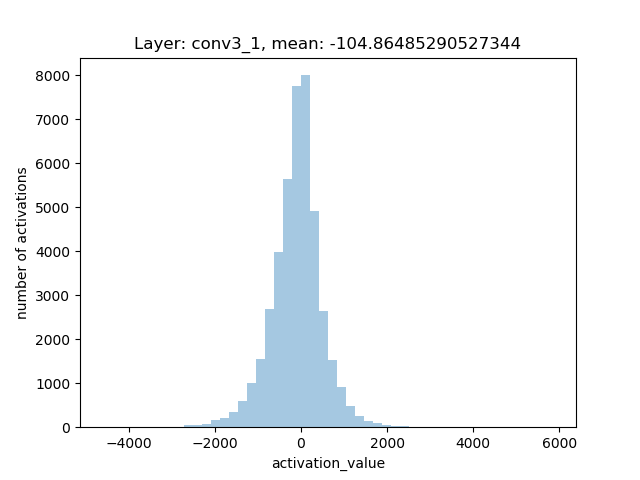
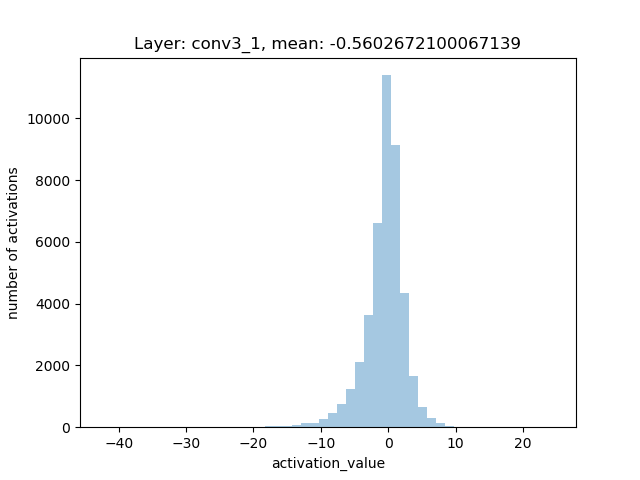
normalized vgg19 weights

diff --git a/vgg19.py b/vgg19.py
@@ -2,10 +2,13 @@ from utils import get_config
 print("what what what what")
 import tensorflow as tf
 import numpy as np
-import scipy.io
 
 
 def build_vgg(sess, h, w, d, config):
+    if config['verbose']: print('\nBUILDING VGG-19 NETWORK')
+    net = {}
+    if config['verbose']: print('loading model weights...')
+    root = config['model_weights']
 
     def conv_layer(layer_name, layer_input, W):
         padding = tf.constant([[0,0],[1,1],[1,1],[0,0]], name='padding')
@@ -34,9 +37,9 @@ def build_vgg(sess, h, w, d, config):
         return pool
 
     # helper function for loading VGG weights
-    def get_weights(vgg_layers, i):
-        weights = vgg_layers[i][0][0][2][0][0]
-
+    def get_weights(layer):
+        path = root+'/{}_{}.npy'.format(layer,'0')
+        weights = np.load(path)
         #This way of initialization is a workaround to ensure that the weights
         #are not written to the event file
         # https://stackoverflow.com/questions/35903910/tensorflow-reading-the-entire-contents-of-a-file-exactly-once-into-a-single-ten/35904439#35904439
@@ -46,89 +49,83 @@ def build_vgg(sess, h, w, d, config):
         return W
 
     #helper function for loading VGG bias weights
-    def get_bias(vgg_layers, i):
-        bias = vgg_layers[i][0][0][2][0][1]
+    def get_bias(layer):
+        path = root+'/{}_{}.npy'.format(layer,'1')
+        bias = np.load(path)
         bias = np.reshape(bias, (bias.size))
         bias_init = tf.placeholder(tf.float32, shape=bias.shape)
         b = tf.Variable(bias_init, trainable=False)
         sess.run(b.initializer, feed_dict={bias_init:bias})
         return b
 
-
-    if config['verbose']: print('\nBUILDING VGG-19 NETWORK')
-    net = {}
-
-    if config['verbose']: print('loading model weights...')
-    vgg_rawnet     = scipy.io.loadmat(config['model_weights'])
-    vgg_layers     = vgg_rawnet['layers'][0]
     if config['verbose']: print('constructing layers...')
     net['input']   = tf.Variable(tf.zeros((1, h, w, d), dtype=np.float32), name='input')
 
     if config['verbose']: print('LAYER GROUP 1')
     with tf.name_scope('layer1'):
-        net['conv1_1'] = conv_layer('conv1_1', net['input'], W=get_weights(vgg_layers, 0))
-        net['relu1_1'] = relu_layer('relu1_1', net['conv1_1'], b=get_bias(vgg_layers, 0))
+        net['conv1_1'] = conv_layer('conv1_1', net['input'], W=get_weights('conv1_1'))
+        net['relu1_1'] = relu_layer('relu1_1', net['conv1_1'], b=get_bias('conv1_1'))
 
-        net['conv1_2'] = conv_layer('conv1_2', net['relu1_1'], W=get_weights(vgg_layers, 2))
-        net['relu1_2'] = relu_layer('relu1_2', net['conv1_2'], b=get_bias(vgg_layers, 2))
+        net['conv1_2'] = conv_layer('conv1_2', net['relu1_1'], W=get_weights('conv1_2'))
+        net['relu1_2'] = relu_layer('relu1_2', net['conv1_2'], b=get_bias('conv1_2'))
 
         net['pool1']   = pool_layer('pool1', net['relu1_2'])
 
     if config['verbose']: print('LAYER GROUP 2')
     with tf.name_scope('layer2'):
-        net['conv2_1'] = conv_layer('conv2_1', net['pool1'], W=get_weights(vgg_layers, 5))
-        net['relu2_1'] = relu_layer('relu2_1', net['conv2_1'], b=get_bias(vgg_layers, 5))
+        net['conv2_1'] = conv_layer('conv2_1', net['pool1'], W=get_weights('conv2_1'))
+        net['relu2_1'] = relu_layer('relu2_1', net['conv2_1'], b=get_bias('conv2_1'))
 
-        net['conv2_2'] = conv_layer('conv2_2', net['relu2_1'], W=get_weights(vgg_layers, 7))
-        net['relu2_2'] = relu_layer('relu2_2', net['conv2_2'], b=get_bias(vgg_layers, 7))
+        net['conv2_2'] = conv_layer('conv2_2', net['relu2_1'], W=get_weights('conv2_2'))
+        net['relu2_2'] = relu_layer('relu2_2', net['conv2_2'], b=get_bias('conv2_2'))
 
         net['pool2']   = pool_layer('pool2', net['relu2_2'])
 
     if config['verbose']: print('LAYER GROUP 3')
     with tf.name_scope('layer3'):
-        net['conv3_1'] = conv_layer('conv3_1', net['pool2'], W=get_weights(vgg_layers, 10))
-        net['relu3_1'] = relu_layer('relu3_1', net['conv3_1'], b=get_bias(vgg_layers, 10))
+        net['conv3_1'] = conv_layer('conv3_1', net['pool2'], W=get_weights('conv3_1'))
+        net['relu3_1'] = relu_layer('relu3_1', net['conv3_1'], b=get_bias('conv3_1'))
 
-        net['conv3_2'] = conv_layer('conv3_2', net['relu3_1'], W=get_weights(vgg_layers, 12))
-        net['relu3_2'] = relu_layer('relu3_2', net['conv3_2'], b=get_bias(vgg_layers, 12))
+        net['conv3_2'] = conv_layer('conv3_2', net['relu3_1'], W=get_weights('conv3_2'))
+        net['relu3_2'] = relu_layer('relu3_2', net['conv3_2'], b=get_bias('conv3_2'))
 
-        net['conv3_3'] = conv_layer('conv3_3', net['relu3_2'], W=get_weights(vgg_layers, 14))
-        net['relu3_3'] = relu_layer('relu3_3', net['conv3_3'], b=get_bias(vgg_layers, 14))
+        net['conv3_3'] = conv_layer('conv3_3', net['relu3_2'], W=get_weights('conv3_3'))
+        net['relu3_3'] = relu_layer('relu3_3', net['conv3_3'], b=get_bias('conv3_3'))
 
-        net['conv3_4'] = conv_layer('conv3_4', net['relu3_3'], W=get_weights(vgg_layers, 16))
-        net['relu3_4'] = relu_layer('relu3_4', net['conv3_4'], b=get_bias(vgg_layers, 16))
+        net['conv3_4'] = conv_layer('conv3_4', net['relu3_3'], W=get_weights('conv3_4'))
+        net['relu3_4'] = relu_layer('relu3_4', net['conv3_4'], b=get_bias('conv3_4'))
 
         net['pool3']   = pool_layer('pool3', net['relu3_4'])
 
     if config['verbose']: print('LAYER GROUP 4')
     with tf.name_scope('layer4'):
-        net['conv4_1'] = conv_layer('conv4_1', net['pool3'], W=get_weights(vgg_layers, 19))
-        net['relu4_1'] = relu_layer('relu4_1', net['conv4_1'], b=get_bias(vgg_layers, 19))
+        net['conv4_1'] = conv_layer('conv4_1', net['pool3'], W=get_weights('conv4_1'))
+        net['relu4_1'] = relu_layer('relu4_1', net['conv4_1'], b=get_bias('conv4_1'))
 
-        net['conv4_2'] = conv_layer('conv4_2', net['relu4_1'], W=get_weights(vgg_layers, 21))
-        net['relu4_2'] = relu_layer('relu4_2', net['conv4_2'], b=get_bias(vgg_layers, 21))
+        net['conv4_2'] = conv_layer('conv4_2', net['relu4_1'], W=get_weights('conv4_2'))
+        net['relu4_2'] = relu_layer('relu4_2', net['conv4_2'], b=get_bias('conv4_2'))
 
-        net['conv4_3'] = conv_layer('conv4_3', net['relu4_2'], W=get_weights(vgg_layers, 23))
-        net['relu4_3'] = relu_layer('relu4_3', net['conv4_3'], b=get_bias(vgg_layers, 23))
+        net['conv4_3'] = conv_layer('conv4_3', net['relu4_2'], W=get_weights('conv4_3'))
+        net['relu4_3'] = relu_layer('relu4_3', net['conv4_3'], b=get_bias('conv4_3'))
 
-        net['conv4_4'] = conv_layer('conv4_4', net['relu4_3'], W=get_weights(vgg_layers, 25))
-        net['relu4_4'] = relu_layer('relu4_4', net['conv4_4'], b=get_bias(vgg_layers, 25))
+        net['conv4_4'] = conv_layer('conv4_4', net['relu4_3'], W=get_weights('conv4_4'))
+        net['relu4_4'] = relu_layer('relu4_4', net['conv4_4'], b=get_bias('conv4_4'))
 
         net['pool4']   = pool_layer('pool4', net['relu4_4'])
 
     if config['verbose']: print('LAYER GROUP 5')
     with tf.name_scope('layer5'):
-        net['conv5_1'] = conv_layer('conv5_1', net['pool4'], W=get_weights(vgg_layers, 28))
-        net['relu5_1'] = relu_layer('relu5_1', net['conv5_1'], b=get_bias(vgg_layers, 28))
+        net['conv5_1'] = conv_layer('conv5_1', net['pool4'], W=get_weights('conv5_1'))
+        net['relu5_1'] = relu_layer('relu5_1', net['conv5_1'], b=get_bias('conv5_1'))
 
-        net['conv5_2'] = conv_layer('conv5_2', net['relu5_1'], W=get_weights(vgg_layers, 30))
-        net['relu5_2'] = relu_layer('relu5_2', net['conv5_2'], b=get_bias(vgg_layers, 30))
+        net['conv5_2'] = conv_layer('conv5_2', net['relu5_1'], W=get_weights('conv5_2'))
+        net['relu5_2'] = relu_layer('relu5_2', net['conv5_2'], b=get_bias('conv5_2'))
 
-        net['conv5_3'] = conv_layer('conv5_3', net['relu5_2'], W=get_weights(vgg_layers, 32))
-        net['relu5_3'] = relu_layer('relu5_3', net['conv5_3'], b=get_bias(vgg_layers, 32))
+        net['conv5_3'] = conv_layer('conv5_3', net['relu5_2'], W=get_weights('conv5_3'))
+        net['relu5_3'] = relu_layer('relu5_3', net['conv5_3'], b=get_bias('conv5_3'))
 
-        net['conv5_4'] = conv_layer('conv5_4', net['relu5_3'], W=get_weights(vgg_layers, 34))
-        net['relu5_4'] = relu_layer('relu5_4', net['conv5_4'], b=get_bias(vgg_layers, 34))
+        net['conv5_4'] = conv_layer('conv5_4', net['relu5_3'], W=get_weights('conv5_4'))
+        net['relu5_4'] = relu_layer('relu5_4', net['conv5_4'], b=get_bias('conv5_4'))
 
         net['pool5']   = pool_layer('pool5', net['relu5_4'])
 

diff --git a/color_transfer.py b/color_transfer.py
@@ -150,6 +150,6 @@ def _scale_array(arr, clip=True):
     return scaled
 
 if __name__=='__main__':
-    source = cv2.imread('images/aurat.jpeg')
-    target = cv2.imread('images/old_man_portrait_GAP.jpg')
-    cv2.imwrite('images/old_man_portrait_GAP_ct.jpg', color_transfer(source, target, preserve_paper=False))
+    source = cv2.imread('images/doge_ct.jpg')
+    target = cv2.imread('images/portrait8.jpg')
+    cv2.imwrite('images/portrait_ct.jpg', color_transfer(source, target, preserve_paper=False))

diff --git a/main.py b/main.py
@@ -20,8 +20,8 @@ def save_feature_histogram(sess, model, image_path, layer):
 
 if __name__=='__main__':
     config = get_config()
-
     device = '/device:CPU:0' if config['debug'] else "/device:GPU:0"
     with tf.Session() as sess, tf.device(device):
         model = CoarseFineModel(sess, config, 50, 50)
-        save_feature_histogram(sess, model, 'images/aurat.jpeg', 'conv3_1')
+        save_feature_histogram(sess, model, 'sample_images/aurat.jpeg', 'relu5_1')
+    
